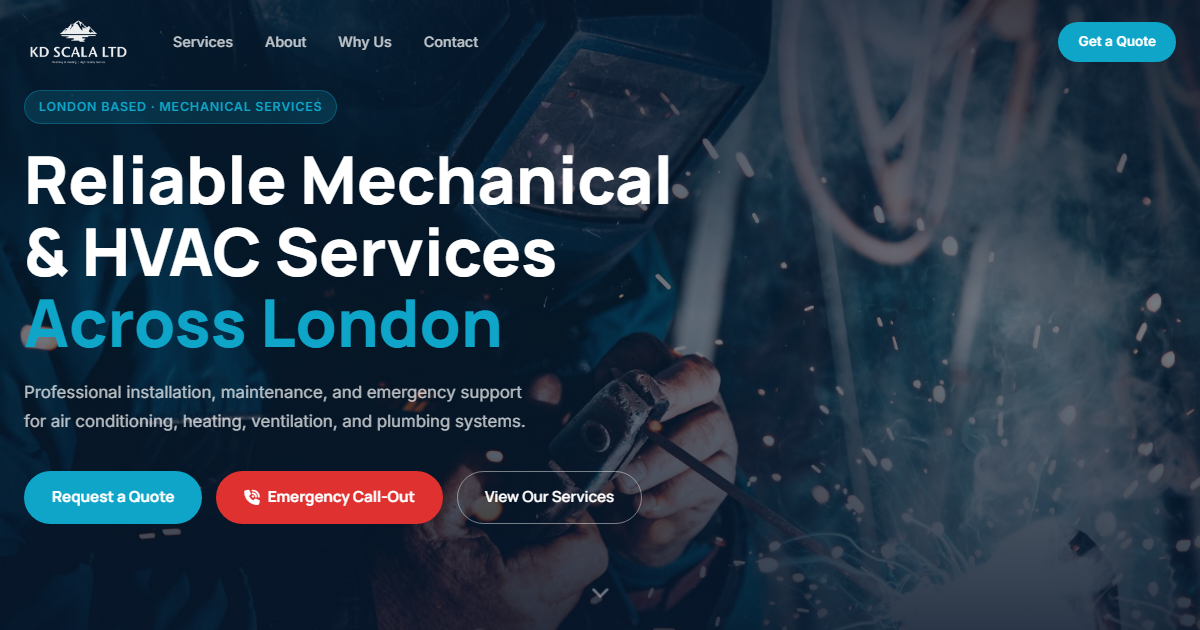
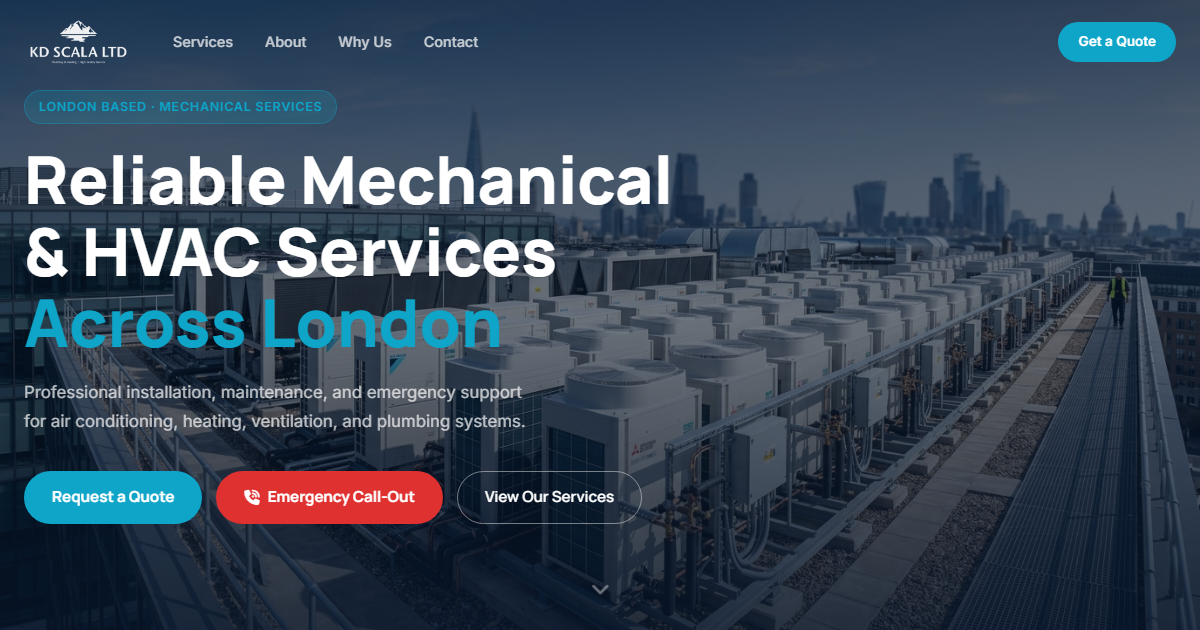
Replace generic stock images with high-res thematic HVAC photos matching exact section texts

diff --git a/index.html b/index.html
@@ -157,7 +157,7 @@
   <!-- HERO -->
   <section class="hero" id="home">
     <div class="hero-bg">
-      <img src="https://images.unsplash.com/photo-1504328345606-18bbc8c9d7d1?w=1800&q=80" alt="HVAC engineer working on air conditioning unit" class="hero-img" />
+      <img src="images/hero-hvac.jpg" alt="Commercial HVAC rooftop installation across London" class="hero-img" />
       <div class="hero-overlay"></div>
     </div>
     <div class="hero-content container">
@@ -238,7 +238,7 @@
 
         <div class="service-card reveal" id="service-ac">
           <div class="service-card-img">
-            <img src="https://images.unsplash.com/photo-1581974944026-5d6ed762f617?w=700&q=80" alt="Air conditioning unit being serviced" loading="lazy" />
+            <img src="images/service-ac.jpg" alt="Air conditioning installation and split system servicing" loading="lazy" />
           </div>
           <div class="service-card-body">
             <div class="service-icon"><i class="fa-solid fa-snowflake"></i></div>
@@ -256,7 +256,7 @@
 
         <div class="service-card reveal" id="service-heating">
           <div class="service-card-img">
-            <img src="https://images.unsplash.com/photo-1558618666-fcd25c85cd64?w=700&q=80" alt="Boiler and heating system" loading="lazy" />
+            <img src="images/service-heating.jpg" alt="Plant room boiler installation and heating pipework" loading="lazy" />
           </div>
           <div class="service-card-body">
             <div class="service-icon"><i class="fa-solid fa-fire-flame-curved"></i></div>
@@ -274,7 +274,7 @@
 
         <div class="service-card reveal" id="service-ventilation">
           <div class="service-card-img">
-            <img src="https://images.unsplash.com/photo-1504328345606-18bbc8c9d7d1?w=700&q=80" alt="Ventilation ductwork" loading="lazy" />
+            <img src="images/service-ventilation.jpg" alt="Ventilation system ductwork and air handling units" loading="lazy" />
           </div>
           <div class="service-card-body">
             <div class="service-icon"><i class="fa-solid fa-wind"></i></div>
@@ -292,7 +292,7 @@
 
         <div class="service-card reveal" id="service-irrigation">
           <div class="service-card-img">
-            <img src="https://images.unsplash.com/photo-1416879595882-3373a0480b5b?w=700&q=80" alt="Garden irrigation system" loading="lazy" />
+            <img src="images/service-irrigation.jpg" alt="Automated garden and commercial landscape irrigation system" loading="lazy" />
           </div>
           <div class="service-card-body">
             <div class="service-icon"><i class="fa-solid fa-droplet"></i></div>
@@ -316,7 +316,7 @@
   <section class="about" id="about">
     <div class="container about-top">
       <div class="about-image-stack reveal">
-        <img src="https://images.unsplash.com/photo-1621905252507-b35492cc74b4?w=800&q=80" alt="KD Scala engineer at work" class="about-hero-img" loading="lazy" />
+        <img src="images/about-engineer.jpg" alt="KD Scala qualified HVAC technician servicing equipment" class="about-hero-img" loading="lazy" />
       </div>
 
       <div class="about-text-content reveal">
